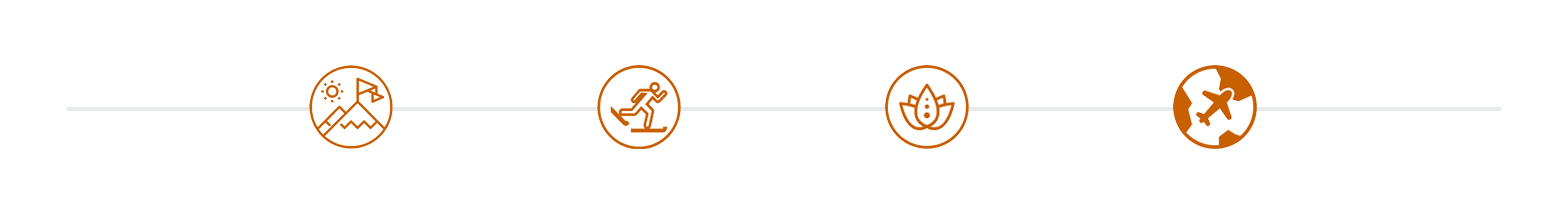
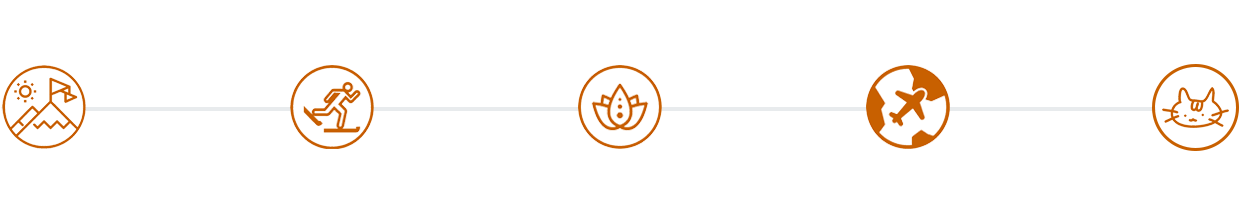
more formatting

diff --git a/index.html b/index.html
@@ -61,7 +61,7 @@
     <section id="welcome" class="section">
         <div class="container centered reveal active">
                 <div class="row subsection" style="margin-bottom:250px">
-                  <h2>welcome! I'm happy you're here :)</h2>
+                  <h2>welcome! i'm happy you're here :)</h2>
                 </div>
 
                 <div class="row subsection" style="margin-bottom:150px">
@@ -138,35 +138,28 @@
           <map name="timelinemap">
             <a>
               <area target="" alt="" title="" href="" coords="65,117,143" shape="circle">
-              <img src="img/kids.jpeg" width="35%" style="position:fixed;left:-200px;top:175px"/>
+              <img src="img/kids.jpeg" width="45%" style="position:fixed;left:-220px;top:175px"/>
             </a>
             <a>
               <area target="" alt="" title="" href="" coords="375,113,127" shape="circle">
-              <img src="img/ridingclub.png" width="35%" style="position:fixed;left:80px;top:175px"/>
+              <img src="img/ridingclub.png" width="45%" style="position:fixed;left:50px;top:175px"/>
             </a>
             <a>
               <area target="" alt="" title="" href="" coords="700,116,124" shape="circle">
-              <img src="img/sims.png" width="33%" style="position:fixed;left:350px;top:175px"/>
+              <img src="img/sims.png" width="40%" style="position:fixed;left:350px;top:175px"/>
             </a>
             <a>
               <area target="" alt="" title="" href="" coords="947,118,148" shape="circle">
-              <img src="img/neopets-logo.png" width="35%" style="position:fixed;right:100px;top:175px"/>
+              <img src="img/neopets-logo.png" width="40%" style="position:fixed;right:100px;top:175px"/>
             </a>
             <a>
               <area target="" alt="" title="" href="" coords="1200,120,164" shape="circle">
-              <img src="img/myspace-logo.png" width="30%" style="position:fixed;right:-170px;top:175px"/>
+              <img src="img/myspace-logo.png" width="40%" style="position:fixed;right:-170px;top:175px"/>
             </a>
           </map>
         </div>
       </div>
     </section>
-
-    <!-- <section class="section">
-      <div class="container reveal">
-        <script src="https://apps.elfsight.com/p/platform.js" defer></script>
-        <div class="elfsight-app-60b1c3ea-ac15-4541-a1ae-922e38cb4c4f" style="display:flex;justify-content:center"></div>
-        </div>
-    </section> -->
 
     <section id="one" class="section">
       <div class="container reveal">
@@ -244,7 +237,7 @@
                       class="fa-solid fa-heart-crack fa-4x icon-width"
                       style="color:#C86000">
                     </i>
-                    <h3>Parents split</h3>
+                    <h3>Divorce</h3>
                   </div>
 
                   <div
@@ -338,19 +331,19 @@
         <div class="row subsection" style="margin-bottom:50px">
           <h1>THE MEME</h1>
         </div>
-        <img src="img/meme.png" width="50%"/>
+        <img src="img/meme.png" width="70%"/>
         </div>
     </section>
 
     <section class="section">
-      <div class="container reveal">
-        <img src="img/capstone.png" width="100%"/>
-        <img src="img/graduation.png" width="100%" style="margin-top:100px;margin-bottom:100px"/>
-        <img src="img/adobe.png" width="100%"/>
+      <div class="container reveal" style="display:flex;flex-direction:column;align-items:center">
+        <img src="img/capstone.png" width="120%"/>
+        <img src="img/graduation.png" width="120%" style="margin-top:150px;margin-bottom:150px"/>
+        <img src="img/adobe.png" width="120%"/>
       </div>
     </section>
 
-    <section class="section">
+    <!-- <section class="section">
       <div class="container reveal text-center">
         <div class="row">
           <div class="row"><h2 class="timeline-text">sometime today</h2></div>
@@ -371,6 +364,37 @@
             <a>
               <area target="" alt="" title="" href="" coords="1020,108,158" shape="circle">
               <img src="img/travel.JPG" width="40%" style="position:fixed;right:30px;top:190px"/>
+            </a>
+          </map>
+        </div>
+      </div>
+    </section> -->
+
+    <section class="section">
+      <div class="container reveal text-center">
+        <div class="row">
+          <div class="row"><h2 class="timeline-text">sometime today</h2></div>
+          <img src="img/timeline-2.png" width="100%" height="auto" alt="timeline map" usemap="#timelinemap2">
+          <map name="timelinemap2">
+            <a>
+              <area target="" alt="" title="" href="" coords="-1,2,184,212" shape="rect">
+              <img src="img/hiking.JPG" width="40%" style="position:fixed;left:-200px;top:220px"/>
+            </a>
+            <a>
+              <area target="" alt="" title="" href="" coords="435,2,183,212" shape="rect">
+              <img src="img/skiing.JPG" width="50%" style="position:fixed;left:0;top:220px"/>
+            </a>
+            <a>
+              <area target="" alt="" title="" href="" coords="436,-1,715,212" shape="rect">
+              <img src="img/yoga.jpg" width="40%" style="position:fixed;left:340px;top:220px"/>
+            </a>
+            <a>
+              <area target="" alt="" title="" href="" coords="716,0,1013,213" shape="rect">
+              <img src="img/travel.JPG" width="50%" style="position:fixed;right:30px;top:220px"/>
+            </a>
+            <a>
+              <area target="" alt="" title="" href="" coords="975,-1,1237,212" shape="rect">
+              <img src="img/fiona.JPG" width="50%" style="position:fixed;right:-250px;top:220px"/>
             </a>
           </map>
         </div>
